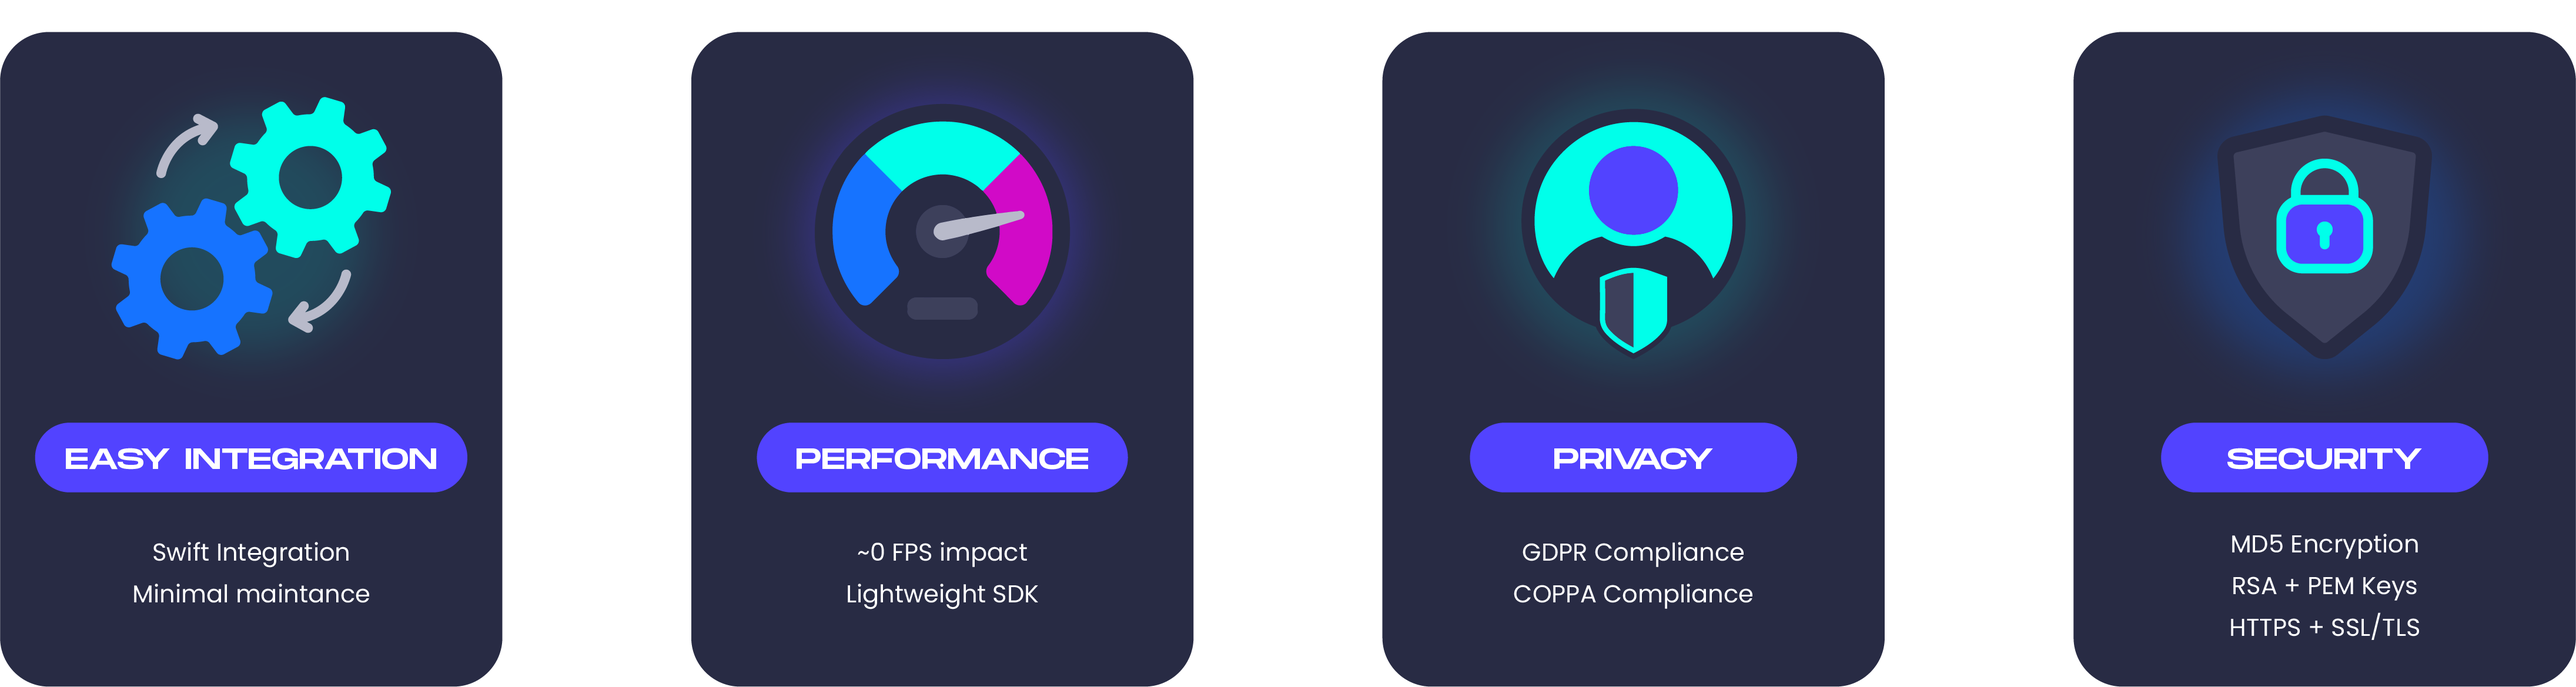
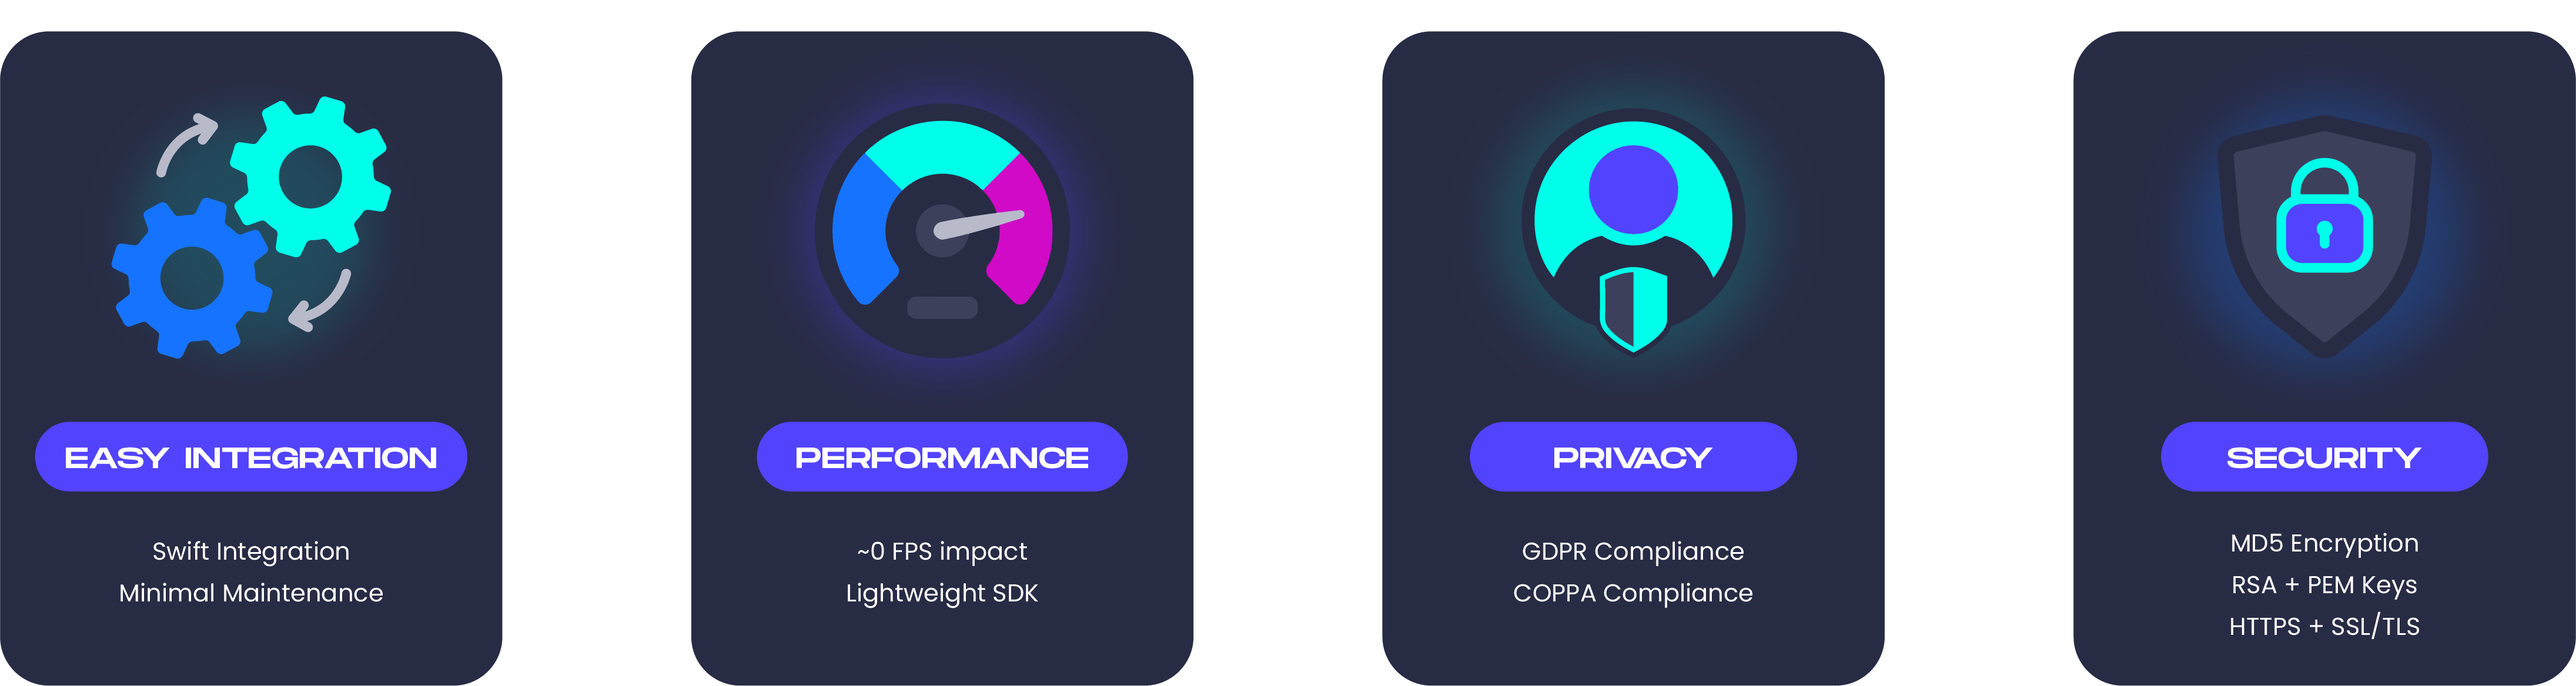
added classes examples

diff --git a/index.html b/index.html
@@ -111,39 +111,40 @@ $(document).ready(function(){initNavTree('index.html',''); initResizable(); });
   <div class="headertitle"><div class="title">Introduction </div></div>
 </div><!--header-->
 <div class="contents">
-<div class="textblock"><p>The Ludeo SDK for Unity is a powerful tool for game studios that allows players to generate new type gaming content by capturing and sharing their highlight moments within a game, these highlights can be later discovered and replayed by other players. The SDK is easy to install and set up, and provides a wide range of features for enhancing player engagement and community building. </p><dl class="section note"><dt>Note</dt><dd>Only whitelisted Ludeo Partner can use and access the Ludeo SDK. For further information, please <a href="#" onclick="location.href='mai'+'lto:'+'uri'+'@l'+'ude'+'o.'+'com'; return false;">contact us</a>.</dd></dl>
+<div class="textblock"><p>The Ludeo SDK for Unity is a powerful tool for game studios that enables players to generate a new form of gaming content by capturing and sharing their highlight moments within a game, which other players can discover and replay. The SDK is simple to install and configure, offering many features for enhancing user engagement and community development.</p>
+<dl class="section note"><dt>Note</dt><dd>Only whitelisted Ludeo Partner can use and access the Ludeo SDK. For further information, please <a href="#" onclick="location.href='mai'+'lto:'+'uri'+'@l'+'ude'+'o.'+'com'; return false;">contact us</a>.</dd></dl>
 <h1><a class="anchor" id="autotoc_md0"></a>
 What is Ludeo?</h1>
-<p>Ludeo is an innovative platform that converts captured gaming moments into standalone gameplay units. The following are the basic procedures for using Ludeo:</p>
+<p>Ludeo is an innovative platform that converts captured gaming moments into standalone gameplay units. The following are the basic features of Ludeo:</p>
 <div class="image">
 <img src="whatisludeo.png" alt=""/>
 </div>
 <ol type="1">
-<li><b>Capture your Moment</b>: Capture your gaming moment using the Ludeo Tracker on your selected game.</li>
-<li><b>Shared your Moment</b>: Share your captured gaming moment on social media platforms as a challenge for the gaming community to re-experience your moment with the Ludeo's link. You can set configuration for your moment on the Ludeo Creator Lab.</li>
-<li><b>Play the Moment</b>: Fellow gamers can play the exact gaming moment that you have shared by clicking the Ludeo links. This will open up the respective game on the Steam game launcher by utilizing the Ludeo Replayer. </li>
+<li><b>Capture Your Moment</b>: Use the Ludeo Tracker to capture your gaming moment in your selected game.</li>
+<li><b>Shared Your Moment</b>: Share your captured gaming moment on social media platforms as a challenge for the gaming community to re-experience your moment with the Ludeo link. You can configure your moment on the Ludeo Creator Lab.</li>
+<li><b>Play the Moment</b>: Fellow gamers can play the exact gaming moment that you have shared by clicking the Ludeo link. This will open up the respective game on the Steam game launcher through the use of Ludeo Replayer. </li>
 </ol>
 <h2><a class="anchor" id="autotoc_md1"></a>
 Ludeo High-Level Parts</h2>
-<p>Ludeo is comprised of three high-level parts:</p>
+<p>Ludeo has three high-level parts:</p>
 <div class="image">
 <img src="highlevel.png" alt=""/>
 </div>
 <h2><a class="anchor" id="autotoc_md2"></a>
 Ludeo Tracker</h2>
-<p>Ludeo Tracker is responsible for recording and saving the game data from your gaming moments. This data, including videos and images, creates the Ludeo, a standalone gameplay unit. Ludeo Tracker also assists the Creator Lab in defining the crucial parameters such as Goals, End conditions, and Scoring parameters of your Ludeo. </p>
+<p>Ludeo Tracker is responsible for recording and saving the game data from your gaming moments. This data, including videos and images, creates the Ludeo, a standalone gameplay unit. Ludeo Tracker also assists the Creator Lab in defining the crucial parameters such as the Goals, End conditions, and Scoring parameters of your Ludeo. </p>
 <h2><a class="anchor" id="autotoc_md3"></a>
 Creator Lab</h2>
 <p>The Creator Lab is a vital platform within Ludeo that enables users to configure their gaming moments or set conditions for their Ludeo gameplay units. This includes defining the objective or goal of the Ludeo, the end conditions of the gameplay, setting the gameplay's duration, establishing scoring parameters, and defining the name and description of the Ludeo. Once the Ludeo is created, it can be published on social media platforms to be shared with others in the gaming community. </p>
 <h2><a class="anchor" id="autotoc_md4"></a>
 Ludeo Replayer</h2>
-<p>The Ludeo Replayer is responsible for creating and opening the Ludeo file within the selected game. It is also responsible for the Ludeo GUI, facilitating communication between the Ludeo architecture, calculating the Ludeo score, and generating leaderboards.</p>
+<p>The Ludeo Replayer is responsible for creating and opening the Ludeo file within the selected game. It is also responsible for the Ludeo's GUI, facilitating communication between the Ludeo architecture, calculating the Ludeo score, and generating leaderboards.</p>
 <h1><a class="anchor" id="autotoc_md5"></a>
 How It Works?</h1>
 <p>Ludeo creates LudeoDK, which stands for the Ludeo Development Kit. This facilitates the integration between the Ludeo system and the chosen game, allowing Ludeo to recreate the highlighted moment within the game. LudeoDK was created through the use of a Software Development Kit.</p>
 <dl class="section warning"><dt>Warning</dt><dd>Only whitelisted Ludeo partners and those who accept the Integration Terms &amp; Conditions are permitted to integrate with Ludeo and enable the Ludeo Generation on their Game. For further information, please <a href="#" onclick="location.href='mai'+'lto:'+'uri'+'@e'+'dge'+'ga'+'min'+'g.'+'gg'; return false;">contact us</a>.</dd></dl>
 <h2><a class="anchor" id="autotoc_md6"></a>
-Why use SDK?</h2>
+Why Use SDK?</h2>
 <p>SDK enables Ludeo to construct the LudeoDK application, which functions as a toolkit and enables developers to integrate with the chosen game. LudeoDK is exclusive to Ludeo and enables users to recollect, recreate, and experience the exact highlight moment of other players. </p>
 <h3><a class="anchor" id="autotoc_md7"></a>
 Benefits of SDK</h3>
@@ -154,7 +155,7 @@ Benefits of SDK</h3>
 <ul>
 <li><b>Easy Integration</b>: By utilizing the LudeoDK, the integration process is sped up because it simplifies integrating with the Ludeo technology infrastructure and requires minimal maintenance.</li>
 <li><b>Performance</b>: LudeoDK enhances the experience without affecting your game's FPS, allowing you to relive the gaming moment without FPS drops or latency.</li>
-<li><b>Privacy</b>: Using GDPA Compliance and COPPA Compliance, LudeoDK also helps you maintain your privacy.</li>
+<li><b>Privacy</b>: Using GDPR Compliance and COPPA Compliance, LudeoDK also helps you maintain your privacy.</li>
 <li><b>Security</b>: Using MD5 Encryption, RSA, PEM Keys, HTTPS, and SSL/TLS to maintain security, LudeoDK is extremely secure.</li>
 </ul>
 <h2><a class="anchor" id="autotoc_md8"></a>
@@ -162,7 +163,7 @@ How Ludeo Works</h2>
 <div class="image">
 <img src="howitworks.png" alt=""/>
 </div>
-<p> In general, Ludeo works as portrayed in the image above. However, these actions are performed by three stake holders: Game Developer, Game Creator, and Player. </p>
+<p> In general, Ludeo works as portrayed in the image above. However, these actions are performed by three stakeholders: Game Developer, Game Creator, and Player. </p>
 <h3><a class="anchor" id="autotoc_md9"></a>
 Step 1: Integrate your Game</h3>
 <p>As the Game Developer, you must integrate your game into Ludeo and configure the necessary parameters and data so that Ludeo can generate autonomous game units that allow other players to replay a creator's gameplay on your game. </p>
@@ -177,15 +178,15 @@ Ludeo Architecture</h2>
 <div class="image">
 <img src="archi.png" alt=""/>
 </div>
-<p> The image above illustrates how the process and data for creating Ludeo flow through the Ludeo architecture. The two different colors of lines represent two different User Flows:</p>
+<p> The image above illustrates how the process and data for creating Ludeo flow through the Ludeo architecture. The two different colors of lines represent two different User flows:</p>
 <ul>
 <li>The <b>Purple Lines</b> represent the <b>Creator flow</b>.</li>
 <li>The <b>Pink Lines</b> represent the <b>Player flow</b>.</li>
 </ul>
-<p>The Creator captures the gameplay, and the Game Tracker will send it to the Game Manager for scoring criteria when modifying the gameplay on Creator Lab to create the Ludeo for the Ludeo Manager. Ludeo Manager creates Ludeo based on the creator's configuration on the Creator Lab, turns it into a link or uploads it to Ludeo Discovery. Players click links or Ludeo Play buttons to start the Ludeo Player on the integrated game to recreate the creator's Ludeo. The Game tracker will process and store player info in Ludeo Game Manager.</p>
+<p>The Creator captures the gameplay, and the Game Tracker will send it to the Game Manager for scoring criteria when modifying the gameplay on Creator Lab to create the Ludeo for the Ludeo Manager. Ludeo Manager creates Ludeo based on the creator's configuration in the Creator Lab, turns it into a link or uploads it to Ludeo Discovery. Players click links or Ludeo Play buttons to start the Ludeo Player on the integrated game to recreate the creator's Ludeo. The Game tracker will process and store player info in Ludeo Game Manager.</p>
 <h3><a class="anchor" id="autotoc_md13"></a>
 Game Tracker</h3>
-<p>The creator can activate the Game tracker upon integration with your game to process data states in to track the player's objectives and score parameters. Game tracker also gather the Player's data when the player replays the creator's Ludeo. The data is then transmitted to the Ludeo Backend Services Game Manager for storage. </p>
+<p>The creator can activate the Game tracker upon integration with your game to process data states in order to track the player's objectives and score parameters. Game tracker also gathers the Player's data when the player replays the creator's Ludeo. The data is then transmitted to the Game Manager in the Ludeo Backend Services for storage. </p>
 <h3><a class="anchor" id="autotoc_md14"></a>
 Media Uploader</h3>
 <p>Upon integration, once the gameplay has been recorded, the Media Uploader will send all media to the Ludeo Backend Services, where it will be stored in the Game Manager. </p>
@@ -194,10 +195,10 @@ Game Manager</h3>
 <p>Game Manager serves as a repository for a Ludeo session's essential information and recorded media. The data will then be transmitted to the Creator Lab. </p>
 <h3><a class="anchor" id="autotoc_md16"></a>
 Creator Lab</h3>
-<p>This is the platform where the creator configures their session's Goals and Scoring Parameters. </p>
+<p>This is the platform where the creator configures their session's Goals and Scoring parameters. </p>
 <h3><a class="anchor" id="autotoc_md17"></a>
 Ludeo Manager</h3>
-<p>The configured Ludeo is then stored on Ludeo Manager and converted into Hyperlinks that can be published to the Ludeo Discovery Platform or shared on social media platforms. The data is also sent to the Ludeo Player so that the creator's gameplay can be replayed. </p>
+<p>The configured Ludeo is then stored on the Ludeo Manager and converted into hyperlinks that can be published to the Ludeo Discovery Platform or shared on social media platforms. The data is also sent to the Ludeo Player so that the creator's gameplay can be replayed. </p>
 <h3><a class="anchor" id="autotoc_md18"></a>
 Ludeo Player</h3>
 <p>The configured Ludeo is transformed into a standalone game device that operates within the game that has been incorporated with the Ludeo system. Ludeo Player will generate an environment that enables the player to reenact the exact same scene, including any objectives and score parameters that the creator had configured. </p>

diff --git a/index.js b/index.js
@@ -7,7 +7,7 @@ var index =
       [ "Ludeo Replayer", "index.html#autotoc_md4", null ]
     ] ],
     [ "How It Works?", "index.html#autotoc_md5", [
-      [ "Why use SDK?", "index.html#autotoc_md6", [
+      [ "Why Use SDK?", "index.html#autotoc_md6", [
         [ "Benefits of SDK", "index.html#autotoc_md7", null ]
       ] ],
       [ "How Ludeo Works", "index.html#autotoc_md8", [
